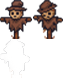
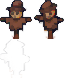
enemy 클래스 추가 / 연습용 봇 클래스 추가 (enemy 클래스 자손) / 연습용 봇 렌더링

Changed region(s): [[0.0, 0.0, 1.0, 0.5385]]

diff --git a/ExerciseBot.cpp b/ExerciseBot.cpp
@@ -1,0 +1,49 @@
+#include "ExerciseBot.h"
+#include <iostream>
+
+ExerciseBot::ExerciseBot(int x, int y)
+	:Enemy(x, y, 32, 32), texture(nullptr), frameindex(0)
+{
+	frames[0] = {0,0,32,39};
+	frames[1] = {34,0,30,39};
+	frames[2] = {0,39,30,39};
+}
+
+ExerciseBot::~ExerciseBot()
+{
+	if (texture)
+	{
+		SDL_DestroyTexture(texture);
+	}
+}
+
+bool ExerciseBot::Init(SDL_Renderer* renderer)
+{
+	TextureLoader TextureLoader;
+	texture = TextureLoader.LoadPNGTexture("assets/bot.png", renderer);
+
+	if (!texture)
+	{
+		std::cerr << "Failed to Load bot.png Texture" << SDL_GetError() << std::endl;
+		return false;
+	}
+
+	return true;
+}
+
+void ExerciseBot::Update(Uint32 currentTIme)
+{
+	if (currentTIme % 1000 < 500)
+	{
+		frameindex = 1;
+	}
+	else
+	{
+		frameindex = 2;
+	}
+}
+
+void ExerciseBot::Render(SDL_Renderer* Renderer)
+{
+	SDL_RenderCopy(Renderer, texture, &frames[frameindex], &dstRect);
+}

diff --git a/Enemy.h b/Enemy.h
@@ -1,0 +1,22 @@
+#pragma once
+#include <SDL.h>
+
+class Enemy
+{
+
+public:
+	Enemy(int x, int y, int w, int h);
+	virtual ~Enemy() = default;
+
+	virtual bool Init(SDL_Renderer* renderer) = 0;
+	virtual void Update(Uint32 currentTime) = 0;
+	virtual void Render(SDL_Renderer* renderer) = 0;
+
+	SDL_Rect GetRect() const { return dstRect; };
+	bool isHit(const SDL_Rect& attackHitBox) const;
+
+protected:
+	SDL_Rect dstRect;
+	int hp;
+};
+

diff --git a/ExerciseBot.h b/ExerciseBot.h
@@ -1,0 +1,20 @@
+#pragma once
+#include "Enemy.h"
+#include "TextureLoader.h"
+
+class ExerciseBot : public Enemy
+{
+public:
+	ExerciseBot( int x, int y );
+	~ExerciseBot();
+
+	bool Init(SDL_Renderer* renderer) override;
+	void Update(Uint32 currentTIme) override;
+	void Render(SDL_Renderer* Renderer) override;
+
+private:
+	SDL_Texture* texture;
+	SDL_Rect frames[3];
+	int frameindex;
+};
+

diff --git a/Enemy.cpp b/Enemy.cpp
@@ -1,0 +1,11 @@
+#include "Enemy.h"
+
+Enemy::Enemy(int x, int y, int w, int h)
+	:dstRect{ x,y,w,h },hp(100)
+{
+}
+
+bool Enemy::isHit(const SDL_Rect& attackHitBox) const
+{
+	return SDL_HasIntersection(&dstRect, &attackHitBox);
+}
